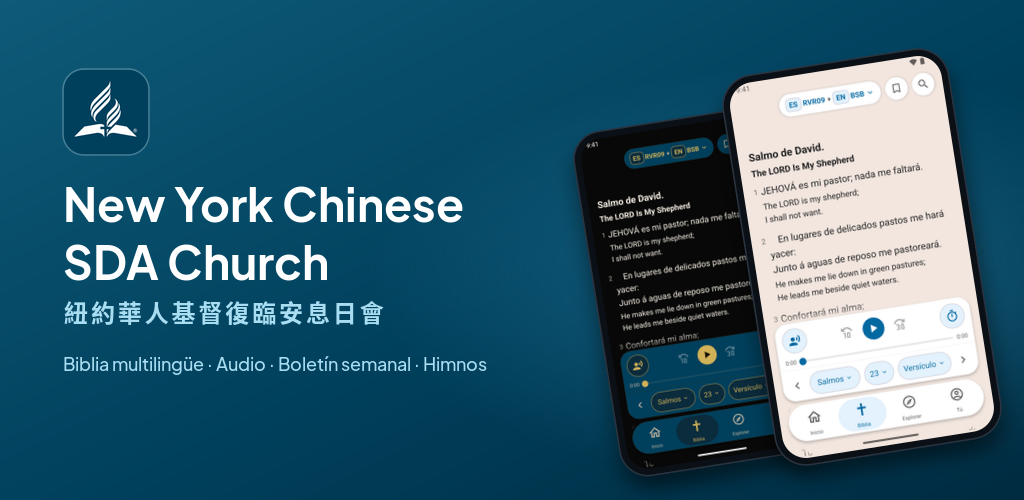
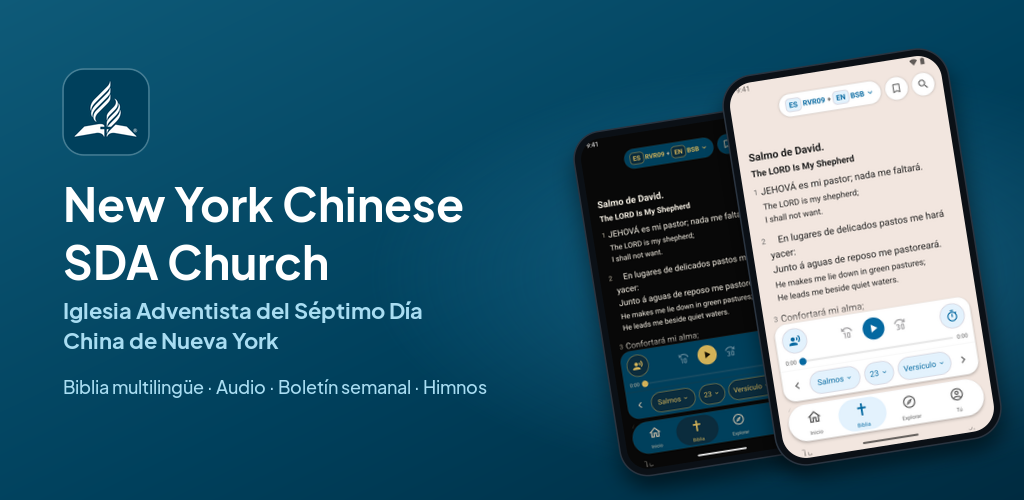
Keep Chinese out of every Spanish store image
Spanish's feature graphic names the church in English and Spanish, not
Chinese. A one-off language's mustNotShowLines apply to every shot in its
sets, and Spanish's fail on any two Han characters together, which the
icons RapidOCR reads as one character don't trip.

Changed region(s): [[0.0625, 0.6, 0.4688, 0.81]]

diff --git a/test/screens.test.ts b/test/screens.test.ts
@@ -307,6 +307,24 @@ describe('one-off store sets (#692)', () => {
     expect(checkShot(tabletBible, read)).toEqual([]);
   });
 
+  it('fails a Spanish shot that shows Chinese, but not the icons RapidOCR reads as one character', () => {
+    const { checkShot } = require('../scripts/check-screens.cjs');
+    const you = planChecks(spanish, 'android').find((shot: { name: string }) => shot.name === 'you-es');
+    expect(you.mustNotShowLines).toContain('\\p{Script=Han}{2,}');
+    // The routine Spanish shots don't get it: it's the one-off sets' rule.
+    expect(planChecks(config, 'android').find((shot: { name: string }) => shot.name === 'explore-es').mustNotShowLines || []).not.toContain(
+      '\\p{Script=Han}{2,}',
+    );
+    const at = (text: string, top: number) => ({ text, box: [0.1, top, 0.3, 0.02] });
+    const tabs = ['Inicio', 'Biblia', 'Explorar'].map((text) => ({ text, box: [0.2, 0.93, 0.1, 0.02] }));
+    // What RapidOCR read from the Spanish shots' icons (#692): no failure.
+    const icons = [at('文A', 0.3), at('目Leer Versículo', 0.2), at('口', 0.05), at('十', 0.9)];
+    expect(checkShot(you, [...tabs, at('Contraste', 0.5), at('Alto contraste', 0.55), ...icons])).toEqual([]);
+    // English's Chinese-interface Bible, as Vision read it: fails.
+    const problems = checkShot(you, [...tabs, at('Contraste', 0.5), at('Alto contraste', 0.55), at('（大衛的詩。〕', 0.3)]);
+    expect(problems.join('\n')).toMatch(/Han/);
+  });
+
   it('gives a store list added later its one-off set with no change', () => {
     const later = { ...spanish, laterList: { 'en-US': ['home-default', 'bible-dual-default', 'you-default'] } };
     expect(oneOffSet(later, 'es', 'laterList')).toEqual(['home-es', 'bible-spanish-dual-es', 'you-es']);

diff --git a/docs/store-assets/README.md b/docs/store-assets/README.md
@@ -19,8 +19,11 @@ screenshots are captured, their sizes, and what they may show are in
   two of the English phone screenshots below in phone frames on the brand blue
   (`#00405C`): the Bible in the dark theme behind the Bible in English and Chinese.
   `google-play/feature-graphic-es.png` is the Spanish listings' (`es-US`, `es-419`):
-  the same, with the line of features in Spanish and two of Spanish's phone screenshots,
-  the Spanish Bible in the dark theme behind the Bible in Spanish and English.
+  the same, but with no Chinese, as the user asked of every Spanish image (#692): the
+  church's name in English and in Spanish, "Iglesia Adventista del Séptimo Día China de
+  Nueva York", which Claude translated, the line of features in Spanish, and two of
+  Spanish's phone screenshots, the Spanish Bible in the dark theme behind the Bible in
+  Spanish and English.
   `scripts/make-play-feature-graphic.cjs` builds both from those screenshots, so run it
   again when they change. An AI assistant designed them and wrote that script, so
   declare them as AI-generated in Play Console; see
@@ -38,7 +41,7 @@ screenshots are captured, their sizes, and what they may show are in
     Traditional interface), Explore, the Library, the Simplified Bible in the dark theme,
     and You.
   - `es/`, for the `es-US` and `es-419` listings, one-off (#692): English's screens with
-    the Spanish interface, in the same order, in Spanish and English only. Home, the
+    the Spanish interface, in the same order, with no Chinese anywhere. Home, the
     Bible in Spanish (Reina-Valera 1909) and English, the Spanish Bible's audio settings
     with its Spanish narration, the Spanish Bible in the dark theme, Explore, the
     Library, and You.
@@ -63,7 +66,7 @@ screenshots are captured, their sizes, and what they may show are in
   the Bible with the Traditional Chinese interface, the Bible in the dark theme, Explore, the
   Library, and You; the two Chinese sets are Google Play's `zh-TW` and `zh-CN` sets.
   Spanish's, for both Spanish listings, is one-off (#692): English's screens with the
-  Spanish interface, in Spanish and English only, the Bible in Spanish and English in
+  Spanish interface, with no Chinese anywhere, the Bible in Spanish and English in
   place of English and Chinese, and, third, the Spanish Bible's audio settings, as on
   Google Play. Home comes first: the first three appear on the App Store's install
   sheets, and Home shows what the app is.
@@ -119,7 +122,7 @@ Spanish's sets, its header, and its feature graphic are from one-off runs on
 November 8, 2026 (#692), on the code then live in the stores: 1.7.1's app, which 1.7.2
 didn't change. Spanish's tablet set came later the same day, once the tablet batch
 existed (#695), and its third shots, the Spanish Bible's audio settings, on November 9,
-when Spanish's sets dropped their Chinese (Spanish and English only). Both came from
+when Spanish's sets dropped every Chinese word. Both came from
 one-off runs on `release-candidate` as it stood after #715, with unreleased app changes
 (#715, #717, #718). None of them shows: Spanish's phone shots from those runs match the
 ones here but for a pixel's shift in the tab bar's pill, and the day's verse on Home.

diff --git a/docs/operations/play-console-answers.md b/docs/operations/play-console-answers.md
@@ -158,8 +158,8 @@ News & magazines, Events (which means ticket sales), and Music & audio.
   Chinese, "Multilingual Bible · Audio · Weekly bulletin · Hymns", and two of the phone
   screenshots in phone frames on the brand blue (`#00405C`): the Bible in the dark theme
   behind the Bible in English and Chinese. The Spanish listings' (`es-US`, `es-419`) has
-  the line in Spanish, "Biblia multilingüe · Audio · Boletín semanal · Himnos", and
-  Spanish's own screenshots (#692). `scripts/make-play-feature-graphic.cjs` builds both
+  no Chinese: the church's name in English and Spanish, the line in Spanish, "Biblia
+  multilingüe · Audio · Boletín semanal · Himnos", and Spanish's own screenshots (#692). `scripts/make-play-feature-graphic.cjs` builds both
   from the phone screenshots, so run it again when they change.
 - **Phone screenshots:** one set of six, which every listing language shows, captured
   as [Store listings](store-listing.md#screenshots) describes. The first submission had
